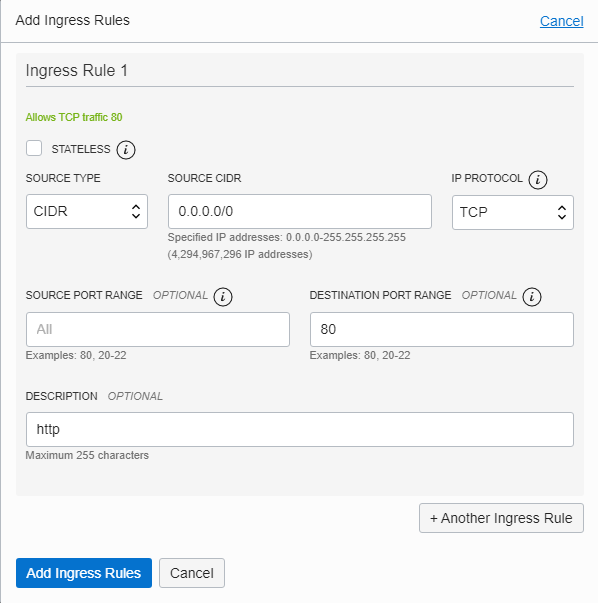
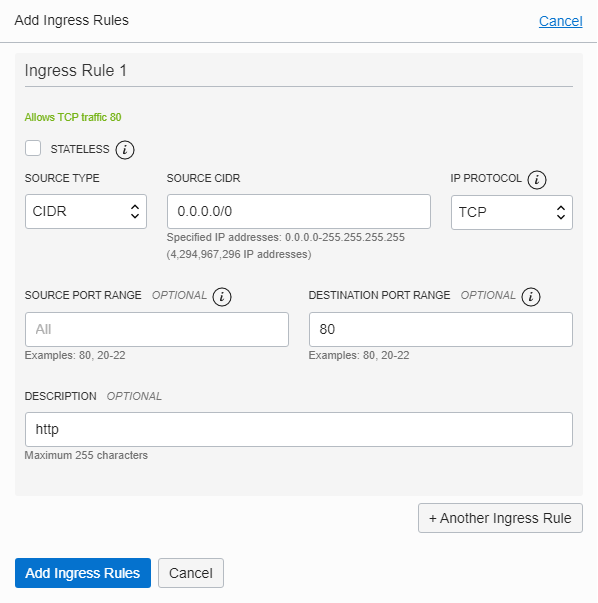
Writing OCI free tier post (ing)

diff --git a/_posts/Oracle cloud/2021-03-18-Oracle cloud-setting.md b/_posts/Oracle cloud/2021-03-18-Oracle cloud-setting.md
@@ -79,10 +79,36 @@ toc_label: Content
 ![OCI_09](\assets\images\post\oracle_cloud\oci_009.png){: .align-center .open-new}
  - Specify a custom boot volume size
  - "Oracle Cloud Free Tier" provide 2 machines(Instances) and total 100GB storage size
- 
+<br/>
  
 ## 2.2. Instance Setting
 
 ### 2.2.1. Check Instance Status
 ![OCI_10](\assets\images\post\oracle_cloud\oci_010.png){: .align-center .open-new}
  - Wait for Provisioning status to Running status a few minutes
+<br/>
+ 
+### 2.2.2. Firewall Rules
+
+ - Click Virtual Cloud Network
+![OCI_12](\assets\images\post\oracle_cloud\oci_012.png){: .align-center .open-new}
+<br/>
+
+ - Click Subnet
+![OCI_13](\assets\images\post\oracle_cloud\oci_013.png){: .align-center .open-new}
+<br/>
+
+ - Click Security Lists
+![OCI_14](\assets\images\post\oracle_cloud\oci_014.png){: .align-center .open-new}
+<br/>
+
+ - Click Add Ingress Rules
+ <br/>
+ -- In initial state, only ssh port(22) is allowed.
+![OCI_15](\assets\images\post\oracle_cloud\oci_015.png){: .align-center .open-new}
+<br/>
+
+ - Add Specific Ingress Rule
+![OCI_16](\assets\images\post\oracle_cloud\oci_016.png){: .align-center .open-new}
+ 
+<br/>
